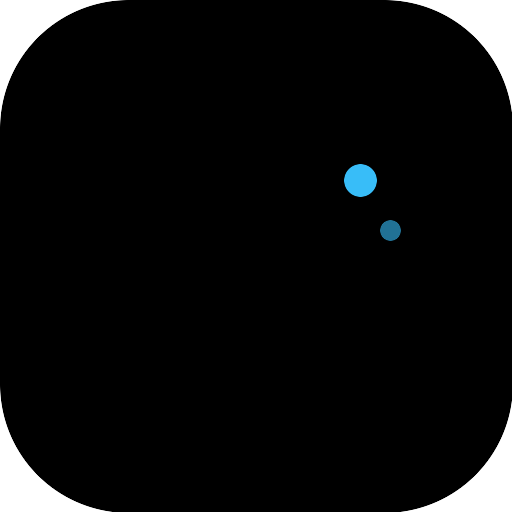
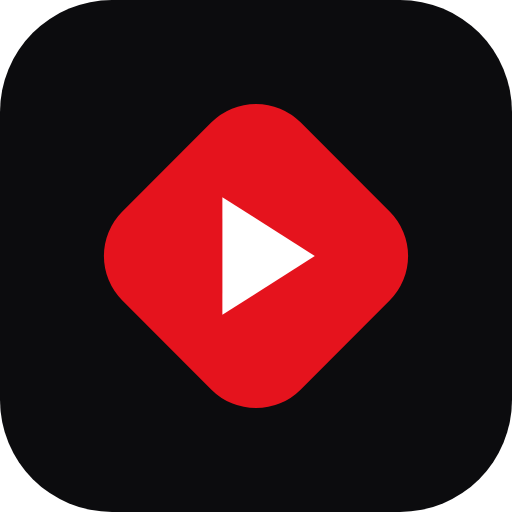
feat(pwa): icônes refaites, raccourcis et captures dans le manifest (#6)
Les PNG d'icône étaient cassés (dégradés du SVG non rendus : carré noir et deux points bleus, y compris l'icône d'écran d'accueil iOS) et l'SVG reprenait l'ancienne charte. Nouvelles icônes à partir du logo actuel (losange rouge, triangle de lecture), rendues par Chrome : any 192/512 + SVG, maskable 512 avec marge de sécurité, apple-touch-icon 180.

Manifest : id, scope, lang, raccourcis (Rechercher, Téléchargements, Mode voiture) sur les nouvelles adresses, captures mobile et bureau. Service worker : manifest et icônes en stale-while-revalidate (ils restaient figés en cache), cache v7. Validé par Chrome (Page.getAppManifest) : aucune erreur.

diff --git a/client/public/sw.js b/client/public/sw.js
@@ -1,4 +1,4 @@
-const CACHE_NAME = 'nomad-stream-v6';
+const CACHE_NAME = 'nomad-stream-v7';
 // Vidéos téléchargées (mode hors connexion) : ce cache n'est JAMAIS purgé lors des mises à jour
 const OFFLINE_CACHE = 'nomad-offline-v1';
 const STATIC_ASSETS = [
@@ -133,8 +133,18 @@ self.addEventListener('fetch', (event) => {
     return;
   }
 
-  // 6. Autres fichiers de l'appli (manifest, icônes)
+  // 6. Autres fichiers de l'appli (manifest, icônes) : version en cache tout de suite, mise à jour
+  //    en arrière-plan (sinon un manifest ou une icône modifiés ne seraient jamais repris)
   event.respondWith(
-    caches.match(event.request).then((cached) => cached || fetch(event.request))
+    caches.match(event.request).then((cached) => {
+      const fetched = fetch(event.request).then((networkRes) => {
+        if (networkRes.status === 200) {
+          const copy = networkRes.clone();
+          caches.open(CACHE_NAME).then((cache) => cache.put(event.request, copy));
+        }
+        return networkRes;
+      }).catch(() => cached);
+      return cached || fetched;
+    })
   );
 });

diff --git a/client/index.html b/client/index.html
@@ -14,7 +14,7 @@
     <meta name="apple-mobile-web-app-capable" content="yes" />
     <meta name="apple-mobile-web-app-status-bar-style" content="black-translucent" />
     <meta name="apple-mobile-web-app-title" content="Nomad Stream" />
-    <link rel="apple-touch-icon" href="/icon-192.png" />
+    <link rel="apple-touch-icon" href="/apple-touch-icon.png" />
     
     <!-- Favicon -->
     <link rel="icon" type="image/svg+xml" href="/icon.svg" />
